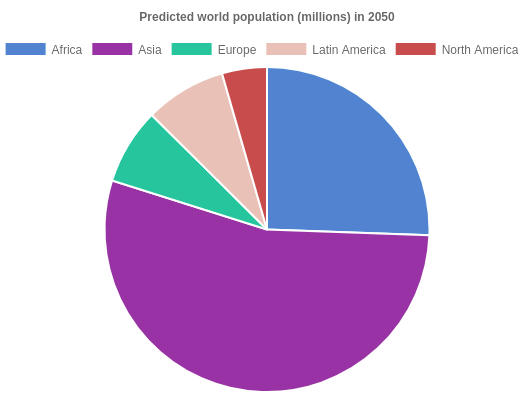
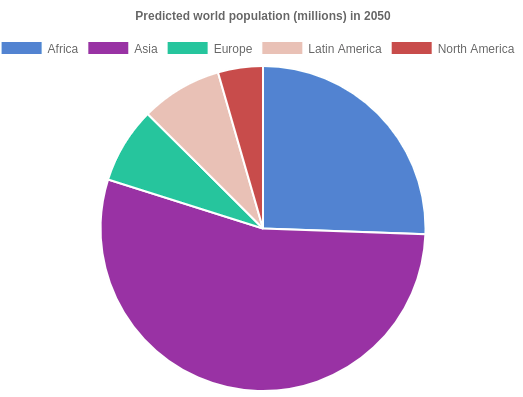
edit pie chart sample in readme

diff --git a/README.md b/README.md
@@ -141,6 +141,46 @@ export default class App extends Component {
     return (
       <div>
         <Line data={this.state.lineChartData} 
+              options={chartOptions} 
+              width={800} 
+              height={400} />
+      </div>
+    )
+  }
+}
+```
+
+### Pie chart
+
+![Pie chart](https://github.com/codefacebook/react-chartjsx/blob/master/images/pie-chart.png)
+
+```
+import { Pie } from 'react-chartjsx'
+
+export default class App extends Component {
+  state = {
+    pieChartData: {
+      labels: ["Africa", "Asia", "Europe", "Latin America", "North America"],
+      datasets: [{
+        label: "Population (millions)",
+        backgroundColor: ["#3e95cd", "#8e5ea2","#3cba9f","#e8c3b9","#c45850"],
+        data: [2478,5267,734,784,433]
+      }]
+    }
+  }
+
+  constructor(props) {
+    super(props)
+  }
+
+  render() {
+    const chartOptions = {
+      responsive: false
+    }
+
+    return (
+      <div>
+        <Pie data={this.state.pieChartData} 
              options={chartOptions} 
              width={800} 
              height={400} />
